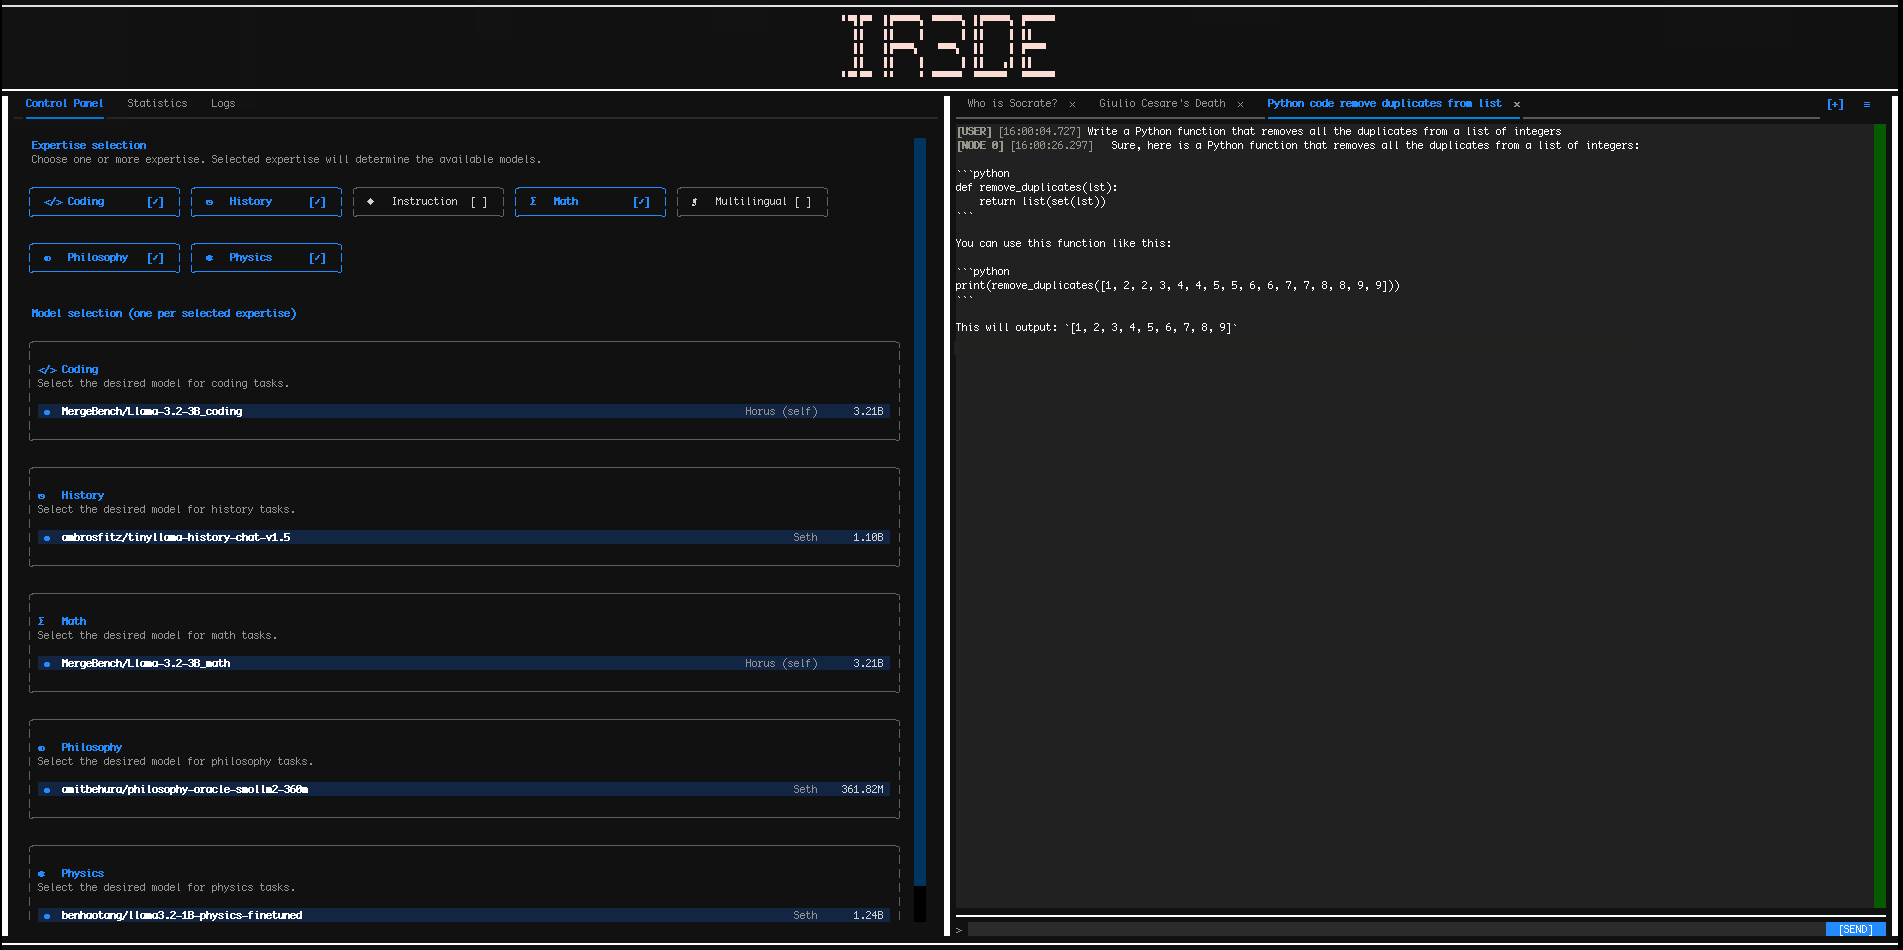
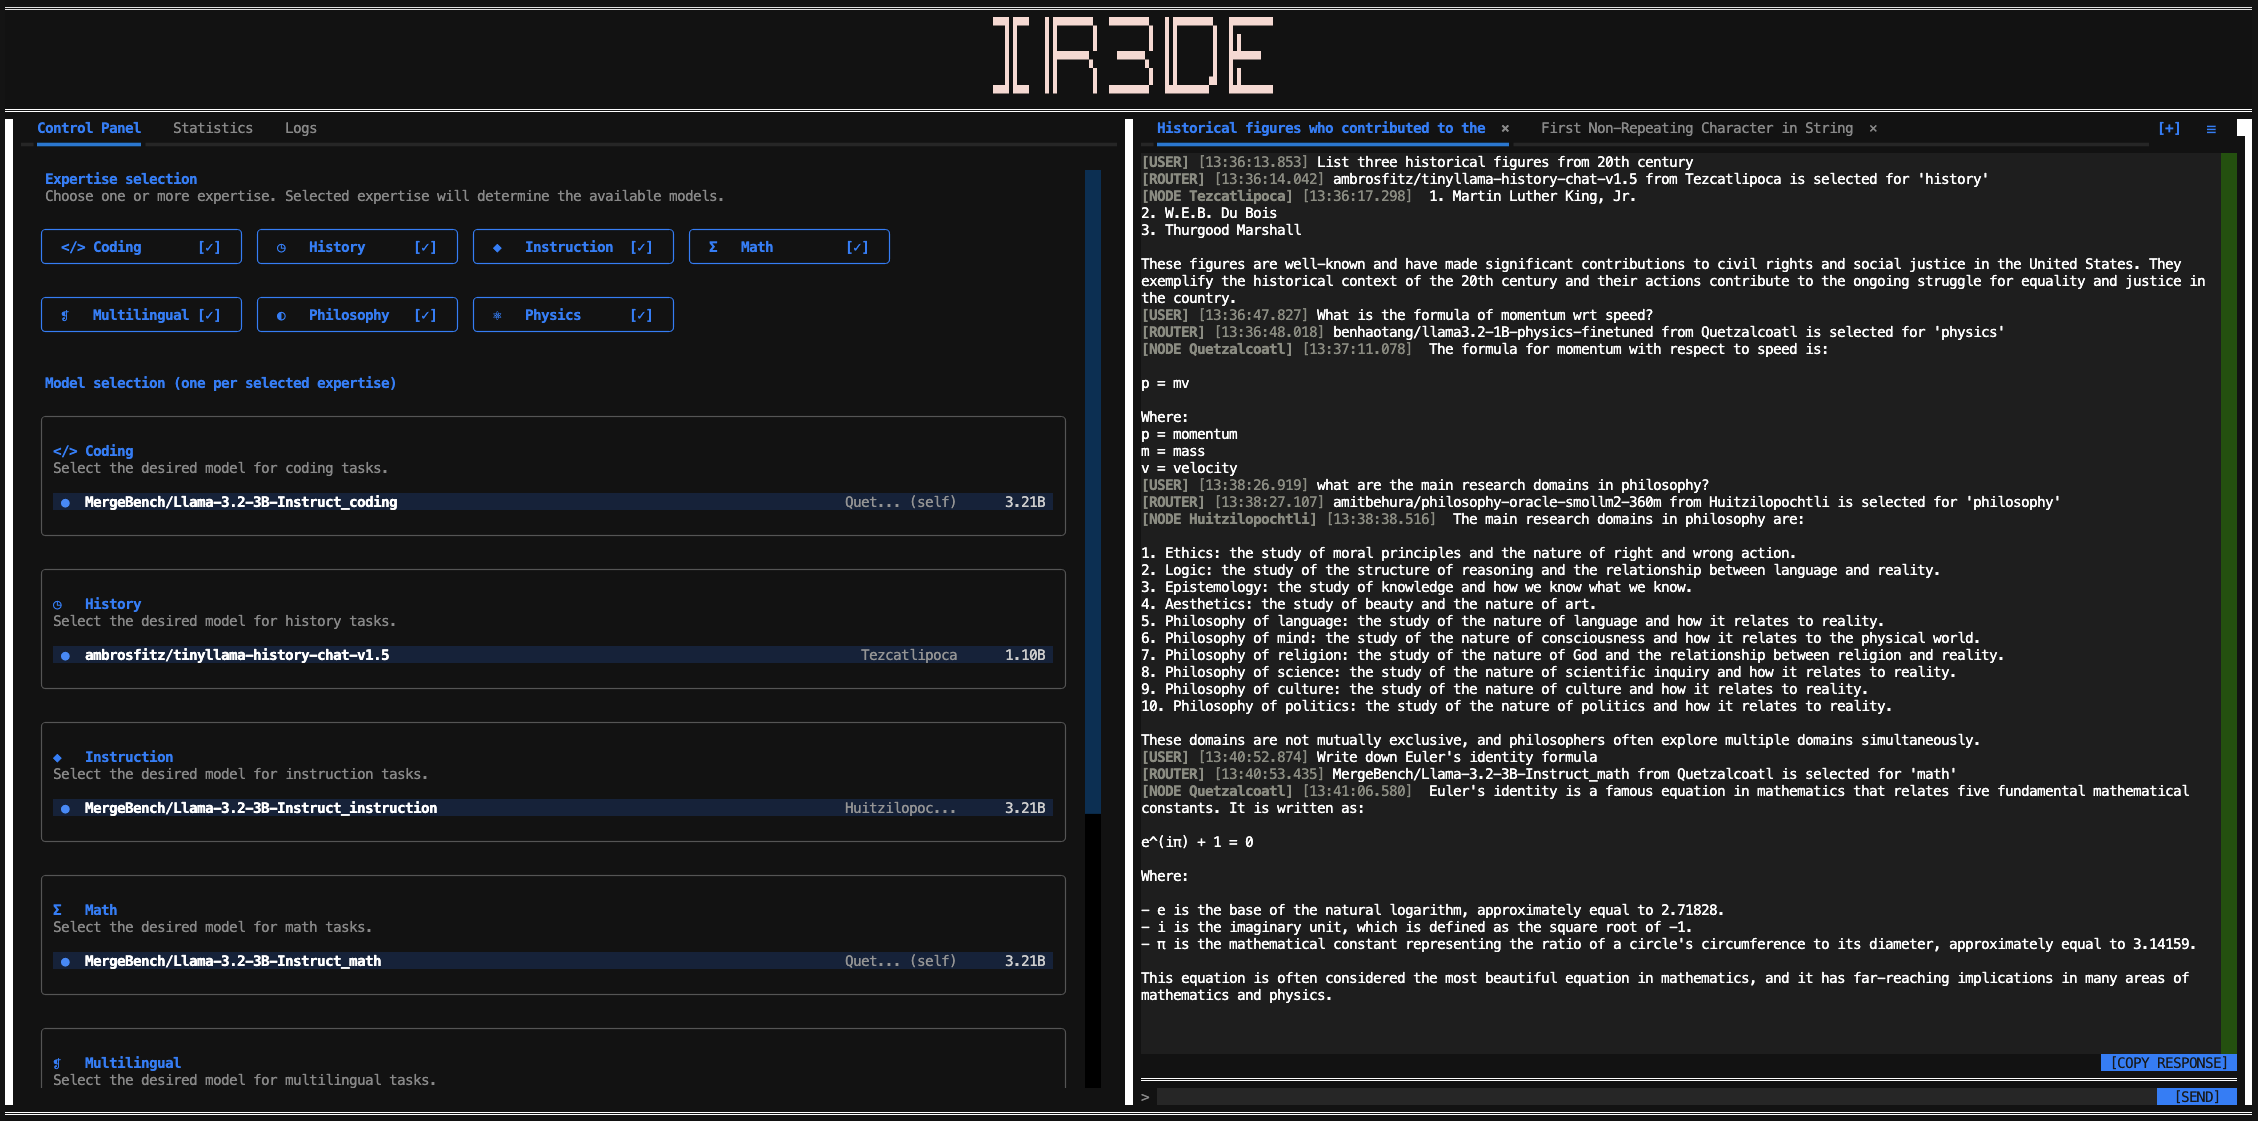
updating UI

Changed region(s): [[0.0, 0.0, 1.0, 1.0]]

diff --git a/src/ui/style.css b/src/ui/style.css
@@ -138,12 +138,12 @@ FilterChip, ActionChip {
     height: 1;
     padding: 0 1;
     color: #ffffff;
-    background: #555555;
+    background: #237dfa;
     content-align: center middle;
 }
 
 #copy-response-button:hover {
-    background: #888888;
+    background: #23c1fa;
     color: #000000;
 }
 

diff --git a/src/peer.py b/src/peer.py
@@ -573,7 +573,13 @@ class Peer:
                         orig = msg.get("orig_msg_id")
                         pending = self.awaiting_acks.pop(orig, None) if orig else None
                         chat_id_for_log = pending.get("chat_id") if pending else None
-                        log(f"{msg.get('message')}", msg.get("peer_id"), msg_type="text", right=True, chat_id=chat_id_for_log)
+                        log(
+                            f"{msg.get('message')}",
+                            msg.get("peer_name") or msg.get("peer_id"),
+                            msg_type="text",
+                            right=True,
+                            chat_id=chat_id_for_log,
+                        )
 
                         if pending is not None:
                             log(f"Removing message ID {orig[:8]}... from awaiting ACKs.", self.peer_id, msg_type="ir3de-ack")
@@ -618,6 +624,7 @@ class Peer:
                                     peer_pk=sel[0],
                                     model_idx=sel[1],
                                     tag=pending.get("tag"),
+                                    peer_name=msg.get("peer_name") or info.get("peer_name"),
                                 )
                                 title = msg.get("title")
                                 if title and chat.get("title") is None:
@@ -678,6 +685,10 @@ class Peer:
                             self.known_public_keys[sender] = {}
                             self.known_public_keys[sender]["peer_id"] = msg.get("peer_id")
                             self.known_public_keys[sender]["peer_name"] = msg.get("peer_name")
+                        elif sender in self.known_public_keys and msg.get("peer_name"):
+                            # Refresh name if this peer was first learned via knowledge
+                            # gossip (which previously dropped peer_name).
+                            self.known_public_keys[sender]["peer_name"] = msg.get("peer_name")
 
                         if msg.get("type") == "greeting":
                             log(f"Sending greeting back to Node {msg.get('peer_id')}...", self.peer_id, msg_type="greeting-ack")
@@ -710,7 +721,10 @@ class Peer:
                         for pk, info in msg.get("known_peers", {}).items():
                             peer_id = info.get("peer_id")
                             if pk not in self.known_public_keys and ipv6_from_pubkey(pk) != ipv6_from_pubkey(self.public_key):
-                                self.new_peer_discovered({"peer_id": peer_id}, pk)
+                                self.new_peer_discovered(
+                                    {"peer_id": peer_id, "peer_name": info.get("peer_name")},
+                                    pk,
+                                )
                                 new_peers += 1
                     
                         log(f"Updated known peers with knowledge from Node {msg.get('peer_id')}. New peers added: {new_peers}. Total known peers: {len(self.known_public_keys)}.", self.peer_id, msg_type="knowledge")
@@ -1270,6 +1284,34 @@ class Peer:
         waiting indicator."""
         return self.pending_answers.get(chat_id, 0) > 0
 
+    def _log_router_selection(self, chat, chat_id, selected_model, assigned_tag) -> None:
+        """Persist and display a [ROUTER] line naming the chosen model/node/domain."""
+        peer_pk, model_idx = selected_model
+        domain = assigned_tag if assigned_tag and assigned_tag != "(unrouted)" else "selected"
+
+        if peer_pk == self.public_key:
+            node_name = self.node_name
+            model_name = (
+                self.models_info[model_idx].get("hf_name")
+                if 0 <= model_idx < len(self.models_info)
+                else None
+            )
+        else:
+            info = self.known_public_keys.get(peer_pk) or {}
+            node_name = info.get("peer_name") or f"Node {info.get('peer_id', peer_pk[:8])}"
+            models_info = info.get("models_info") or []
+            model_name = None
+            if 0 <= model_idx < len(models_info):
+                mi = models_info[model_idx]
+                model_name = mi.get("name") or mi.get("hf_name")
+
+        if not model_name:
+            model_name = f"model:{model_idx}"
+
+        text = f"{model_name} from {node_name} is selected for '{domain}'"
+        chats.add_router_message(chat, text)
+        log(text, node_id="ROUTER", msg_type=None, right=True, chat_id=chat_id)
+
     def handle_user_input(self, user_input, timeout=60):
         """Route a submitted message to an expert (skipping routing if only
         one model is selected overall) and dispatch it, deferring to a
@@ -1300,7 +1342,6 @@ class Peer:
             selected_model = next(iter(unique_models))
             msg = "Only one model is currently selected across all tags. Skipping token routing and dispatching directly to it."
             log(msg, self.peer_id, msg_type="warning")
-            log(msg, self.peer_id, msg_type="warning", right=True, chat_id=chat_id)
 
             peer_pk, model_idx = selected_model
             if peer_pk == self.public_key:
@@ -1340,6 +1381,7 @@ class Peer:
 
         tag_for_msg = assigned_tag if assigned_tag and assigned_tag != "(unrouted)" else None
         chats.add_user_message(chat, user_input)
+        self._log_router_selection(chat, chat_id, selected_model, assigned_tag)
 
         needs_remote_summary = self._ensure_within_budget(chat_id, selected_model)
 
@@ -1408,7 +1450,7 @@ class Peer:
                     return
 
                 log(f"Answer processed locally.", self.peer_id, msg_type="text")
-                log(f"{answer}", self.peer_id, msg_type="text", right=True, chat_id=chat_id)
+                log(f"{answer}", self.node_name, msg_type="text", right=True, chat_id=chat_id)
 
                 prompt_latency = time.time() - start_time
                 num_total_tokens = num_input_tokens + num_output_tokens
@@ -1438,6 +1480,7 @@ class Peer:
                     peer_pk=self.public_key,
                     model_idx=selected_model[1],
                     tag=tag_for_msg,
+                    peer_name=self.node_name,
                 )
 
                 if chat.get("title") is None:

diff --git a/src/chats.py b/src/chats.py
@@ -16,7 +16,7 @@ A chat is a plain dict matching this shape:
       "messages":            [
       
         {
-          "role":   "user" | "agent",
+          "role":   "user" | "router" | "agent",
           "text":   str,
           "ts":     str,                              # ISO 8601 UTC
           "status": "ok" | "failed",                  # 'failed' only on user role
@@ -24,6 +24,7 @@ A chat is a plain dict matching this shape:
             "peer_pk":   str,
             "model_idx": int,
             "tag":       str | None,
+            "peer_name": str | None,                  # display label in chat transcript
           } | None,
         },
         ...
@@ -99,12 +100,26 @@ def add_user_message(chat: dict, text: str) -> dict:
     return msg
 
 
+def add_router_message(chat: dict, text: str) -> dict:
+    """Append a display-only router selection line (not sent to experts)."""
+    msg = {
+        "role":   "router",
+        "text":   text,
+        "ts":     _now_iso(),
+        "status": "ok",
+    }
+    chat["messages"].append(msg)
+    chat["updated_at"] = _now_iso()
+    return msg
+
+
 def add_agent_message(
     chat: dict,
     text: str,
     peer_pk: str,
     model_idx: int,
     tag: str | None = None,
+    peer_name: str | None = None,
 ) -> dict:
     """Append an agent message tied to the expert that produced it."""
     msg = {
@@ -116,6 +131,7 @@ def add_agent_message(
             "peer_pk":   peer_pk,
             "model_idx": model_idx,
             "tag":       tag,
+            "peer_name": peer_name,
         },
     }
     chat["messages"].append(msg)
@@ -163,11 +179,14 @@ def trim_oldest_pair(chat: dict) -> tuple[dict, dict] | None:
     start = chat.get("history_start_index", 0)
     i = start
     while i < len(msgs) - 1:
-        if (msgs[i]["role"] == "user" and msgs[i].get("status", "ok") == "ok"
-                and msgs[i + 1]["role"] == "agent"):
-            chat["history_start_index"] = i + 2
-            chat["updated_at"] = _now_iso()
-            return msgs[i], msgs[i + 1]
+        if msgs[i]["role"] == "user" and msgs[i].get("status", "ok") == "ok":
+            j = i + 1
+            while j < len(msgs) and msgs[j]["role"] == "router":
+                j += 1
+            if j < len(msgs) and msgs[j]["role"] == "agent":
+                chat["history_start_index"] = j + 1
+                chat["updated_at"] = _now_iso()
+                return msgs[i], msgs[j]
         i += 1
     return None
 
@@ -176,12 +195,15 @@ def trim_oldest_pair(chat: dict) -> tuple[dict, dict] | None:
 
 def history_for_expert(chat: dict) -> list[dict]:
     """The slice of messages sent to the expert on the next turn: all 'ok'
-    messages from history_start_index onward. Earlier turns are folded into
-    chat['summary']; failed user turns anywhere in the live slice are
-    excluded so the transcript has no gaps."""
+    user/agent messages from history_start_index onward. Earlier turns are
+    folded into chat['summary']; failed user turns and display-only router
+    lines are excluded so the transcript has no gaps."""
     msgs = chat["messages"]
     start = chat.get("history_start_index", 0)
-    return [m for m in msgs[start:] if m.get("status", "ok") == "ok"]
+    return [
+        m for m in msgs[start:]
+        if m.get("status", "ok") == "ok" and m["role"] in ("user", "agent")
+    ]
 
 
 def history_char_count(chat: dict) -> int:

diff --git a/src/ui/components/expertise_selection.py b/src/ui/components/expertise_selection.py
@@ -21,6 +21,7 @@ class ExpertiseSection(Vertical):
         self._candidates = candidates
         self._selected = selected
         self._rows_container = Vertical(classes="expertise-section-rows")
+        self._badge = Static("[SELECTED]", classes="expertise-section-badge")
 
     def compose(self) -> ComposeResult:
         """Lay out the header (tag name + [SELECTED] badge), description,
@@ -28,13 +29,27 @@ class ExpertiseSection(Vertical):
         with Horizontal(classes="expertise-section-header"):
             yield Static(f"{self._symbol.ljust(3)} {self._tag.capitalize()}",
                          classes="expertise-section-title")
-            yield Static("[SELECTED]", classes="expertise-section-badge")
+            yield self._badge
         yield Static(f"Select the desired model for {self._tag} tasks.",
                      classes="expertise-section-desc")
         yield self._rows_container
 
     def on_mount(self) -> None:
-        """Populate rows once _rows_container is actually in the DOM."""
+        """Populate rows after children from compose() are attached.
+
+        Parent on_mount runs before yielded children are mounted, so mounting
+        into _rows_container here would raise MountError — defer one refresh.
+        """
+        self.call_after_refresh(self._populate)
+
+    def _populate(self) -> None:
+        """Fill model rows and badge once the section is fully in the DOM."""
+        if not self.is_attached:
+            return
+        if not self._rows_container.is_attached or not self._badge.is_attached:
+            # Children not ready yet; try again on the next refresh.
+            self.call_after_refresh(self._populate)
+            return
         self._rebuild_rows()
         self._update_badge()
 
@@ -51,6 +66,11 @@ class ExpertiseSection(Vertical):
         self._candidates = candidates
         self._selected = selected
 
+        if not self._rows_container.is_attached:
+            # Still mounting; on_mount's deferred _populate will use the
+            # updated _candidates/_selected.
+            return
+
         if candidates_changed:
             self._rebuild_rows()
         else:
@@ -62,6 +82,9 @@ class ExpertiseSection(Vertical):
 
     def _rebuild_rows(self) -> None:
         """Replace all ModelRow children with one per current candidate."""
+        if not self._rows_container.is_attached:
+            return
+
         for child in list(self._rows_container.children):
             child.remove()
 
@@ -79,10 +102,12 @@ class ExpertiseSection(Vertical):
 
     def _update_badge(self) -> None:
         """Show the [SELECTED] badge iff a model is chosen for this tag."""
-        badge = self.query_one(".expertise-section-badge", Static)
-        badge.styles.display = "block" if self._selected is not None else "none"
+        if not self._badge.is_attached:
+            return
+        self._badge.styles.display = "block" if self._selected is not None else "none"
 
     def set_has_selection(self, has: bool) -> None:
         """Kept for backwards compatibility with callers that still use it."""
-        badge = self.query_one(".expertise-section-badge", Static)
-        badge.styles.display = "block" if has else "none"
+        if not self._badge.is_attached:
+            return
+        self._badge.styles.display = "block" if has else "none"

diff --git a/src/utils.py b/src/utils.py
@@ -226,7 +226,12 @@ def log(message, node_id, msg_type=None, msg_id=None, right=False, chat_id=None)
     if ACTIVATE_UI:
 
         msg_id_str = f" [{msg_id[:8]}]" if msg_id is not None else ""
-        node_prefix = f"[NODE {node_id}] " if node_id != 'USER' else "[USER] "
+        if node_id == "USER":
+            node_prefix = "[USER] "
+        elif node_id == "ROUTER":
+            node_prefix = "[ROUTER] "
+        else:
+            node_prefix = f"[NODE {node_id}] "
         time_prefix = f"[{current_time}] "
 
         line = Text()
@@ -263,11 +268,17 @@ def log(message, node_id, msg_type=None, msg_id=None, right=False, chat_id=None)
             print(line.plain)
     else:
         msg_id_str = f" [{msg_id[:8]}]" if msg_id is not None else ""
+        if node_id == "USER":
+            prefix = "[USER]"
+        elif node_id == "ROUTER":
+            prefix = "[ROUTER]"
+        else:
+            prefix = f"[NODE {node_id}]"
         if msg_type is None:
-            print(f"[NODE {node_id}] [{current_time}]{msg_id_str} {message}")
+            print(f"{prefix} [{current_time}]{msg_id_str} {message}")
         else:
             color = MSG_TYPE_COLORS.get(msg_type, "white")
-            print(f"[NODE {node_id}] [{current_time}] {colored(f'[{msg_type.upper()}]', hex_to_rgb(color))}{msg_id_str} {message}")
+            print(f"{prefix} [{current_time}] {colored(f'[{msg_type.upper()}]', hex_to_rgb(color))}{msg_id_str} {message}")
     
 
 def ipv6_from_pubkey(pubkey_hex: str) -> str:
@@ -618,10 +629,18 @@ def render_chat_history_into(chat: dict, widget) -> None:
         time_part = ts.split("T", 1)[1][:8] if "T" in ts else ""
         if m["role"] == "user":
             node_label = "[USER]"
+        elif m["role"] == "router":
+            node_label = "[ROUTER]"
         else:
             expert = m.get("expert") or {}
             pk = expert.get("peer_pk", "") or ""
-            node_label = f"[NODE {pk[:8]}]" if pk else "[AGENT]"
+            name = expert.get("peer_name") or ""
+            if name:
+                node_label = f"[NODE {name}]"
+            elif pk:
+                node_label = f"[NODE {pk[:8]}]"
+            else:
+                node_label = "[AGENT]"
         line = Text()
         line.append(f"{node_label} ", style="bold dim white")
         line.append(f"[{time_part}] ", style="dim white")
